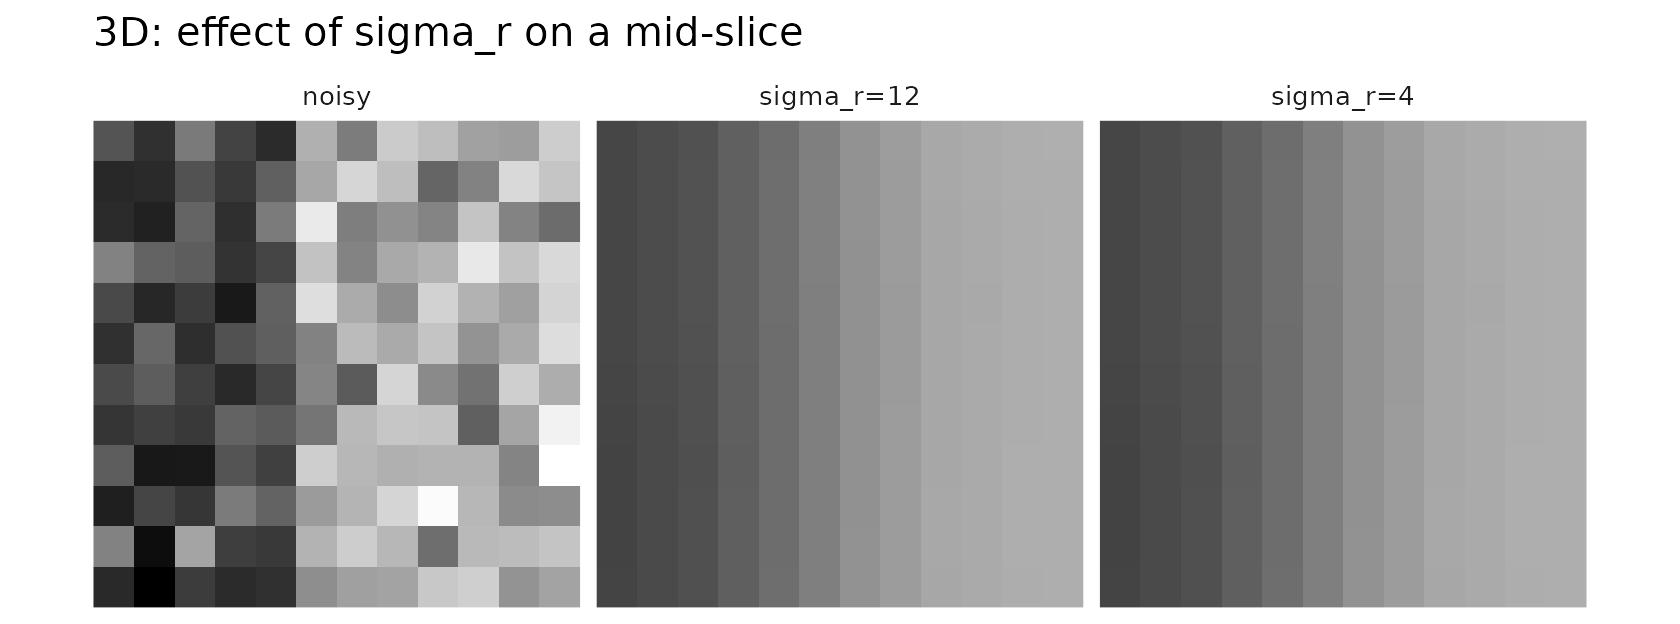
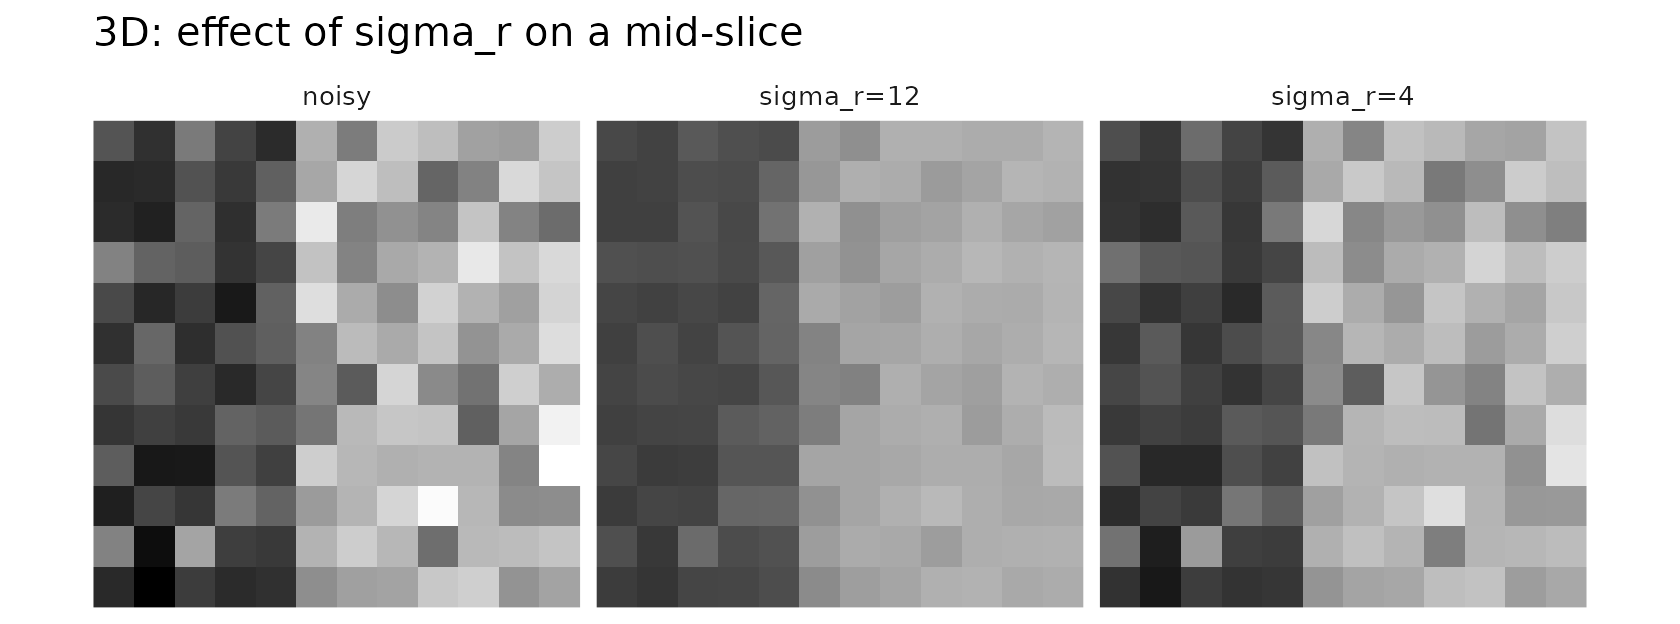
Deploying to gh-pages from @ bbuchsbaum/fmrismooth@e3fd1c4d721d65908ea3e33a7d5a07b94e15e84f 🚀

diff --git a/articles/bilateral-lattice.html b/articles/bilateral-lattice.html
@@ -143,14 +143,16 @@ to approximate a wider Gaussian. Most use cases need 1–2 iterations.</p>
 <span><span class="va">vol</span><span class="op">[</span><span class="fl">6</span><span class="op">:</span><span class="fl">12</span>, , <span class="op">]</span> <span class="op">&lt;-</span> <span class="va">vol</span><span class="op">[</span><span class="fl">6</span><span class="op">:</span><span class="fl">12</span>, , <span class="op">]</span> <span class="op">+</span> <span class="fl">20</span>                    <span class="co"># a step edge</span></span>
 <span><span class="va">noisy3d</span> <span class="op">&lt;-</span> <span class="va">vol</span> <span class="op">+</span> <span class="fu"><a href="https://rdrr.io/r/base/array.html" class="external-link">array</a></span><span class="op">(</span><span class="fu"><a href="https://rdrr.io/r/stats/Normal.html" class="external-link">rnorm</a></span><span class="op">(</span><span class="fu"><a href="https://rdrr.io/r/base/prod.html" class="external-link">prod</a></span><span class="op">(</span><span class="va">d3</span><span class="op">)</span>, sd <span class="op">=</span> <span class="fl">6</span><span class="op">)</span>, dim <span class="op">=</span> <span class="va">d3</span><span class="op">)</span></span>
 <span></span>
-<span><span class="va">out3d_soft</span>  <span class="op">&lt;-</span> <span class="fu"><a href="../reference/bilat_lattice3d.html">bilat_lattice3d</a></span><span class="op">(</span><span class="va">noisy3d</span>, sigma_sp <span class="op">=</span> <span class="fl">2.0</span>, sigma_r <span class="op">=</span> <span class="fl">12</span><span class="op">)</span></span>
-<span><span class="va">out3d_edgey</span> <span class="op">&lt;-</span> <span class="fu"><a href="../reference/bilat_lattice3d.html">bilat_lattice3d</a></span><span class="op">(</span><span class="va">noisy3d</span>, sigma_sp <span class="op">=</span> <span class="fl">2.0</span>, sigma_r <span class="op">=</span> <span class="fl">4</span><span class="op">)</span></span>
+<span><span class="co">## Note: sigma_r only has an effect if an intensity guide is provided.</span></span>
+<span><span class="co">## Using the noisy volume itself as a guide is common in practice.</span></span>
+<span><span class="va">out3d_soft</span>  <span class="op">&lt;-</span> <span class="fu"><a href="../reference/bilat_lattice3d.html">bilat_lattice3d</a></span><span class="op">(</span><span class="va">noisy3d</span>, sigma_sp <span class="op">=</span> <span class="fl">2.0</span>, sigma_r <span class="op">=</span> <span class="fl">12</span>, guide <span class="op">=</span> <span class="va">noisy3d</span><span class="op">)</span></span>
+<span><span class="va">out3d_edgey</span> <span class="op">&lt;-</span> <span class="fu"><a href="../reference/bilat_lattice3d.html">bilat_lattice3d</a></span><span class="op">(</span><span class="va">noisy3d</span>, sigma_sp <span class="op">=</span> <span class="fl">2.0</span>, sigma_r <span class="op">=</span> <span class="fl">4</span>,  guide <span class="op">=</span> <span class="va">noisy3d</span><span class="op">)</span></span>
 <span></span>
 <span><span class="fu"><a href="https://rdrr.io/r/base/c.html" class="external-link">c</a></span><span class="op">(</span>var_noisy   <span class="op">=</span> <span class="fu"><a href="https://rdrr.io/r/stats/cor.html" class="external-link">var</a></span><span class="op">(</span><span class="fu"><a href="https://rdrr.io/r/base/vector.html" class="external-link">as.vector</a></span><span class="op">(</span><span class="va">noisy3d</span><span class="op">)</span><span class="op">)</span>,</span>
 <span>  var_soft    <span class="op">=</span> <span class="fu"><a href="https://rdrr.io/r/stats/cor.html" class="external-link">var</a></span><span class="op">(</span><span class="fu"><a href="https://rdrr.io/r/base/vector.html" class="external-link">as.vector</a></span><span class="op">(</span><span class="va">out3d_soft</span><span class="op">)</span><span class="op">)</span>,</span>
 <span>  var_edgey   <span class="op">=</span> <span class="fu"><a href="https://rdrr.io/r/stats/cor.html" class="external-link">var</a></span><span class="op">(</span><span class="fu"><a href="https://rdrr.io/r/base/vector.html" class="external-link">as.vector</a></span><span class="op">(</span><span class="va">out3d_edgey</span><span class="op">)</span><span class="op">)</span><span class="op">)</span></span>
 <span><span class="co">#&gt; var_noisy  var_soft var_edgey </span></span>
-<span><span class="co">#&gt; 137.92025  56.06691  56.06691</span></span>
+<span><span class="co">#&gt; 137.92025  79.49418 116.73337</span></span>
 <span></span>
 <span><span class="co"># visualize a central slice</span></span>
 <span><span class="va">zmid</span> <span class="op">&lt;-</span> <span class="fu"><a href="https://rdrr.io/r/base/Round.html" class="external-link">ceiling</a></span><span class="op">(</span><span class="va">d3</span><span class="op">[</span><span class="fl">3</span><span class="op">]</span><span class="op">/</span><span class="fl">2</span><span class="op">)</span></span>
@@ -172,7 +174,9 @@ to approximate a wider Gaussian. Most use cases need 1–2 iterations.</p>
 <span>  <span class="fu">labs</span><span class="op">(</span>title <span class="op">=</span> <span class="st">"3D: effect of sigma_r on a mid-slice"</span><span class="op">)</span></span></code></pre></div>
 <p><img src="bilateral-lattice_files/figure-html/unnamed-chunk-1-1.png" width="840"></p>
 <p>The smaller <code>sigma_r</code> preserves edges more aggressively at
-the cost of less denoising across intensity transitions.</p>
+the cost of less denoising across intensity transitions. If no guide is
+supplied, the filter reduces to a purely spatial Gaussian smoothing and
+<code>sigma_r</code> has no effect.</p>
 </div>
 <div class="section level2">
 <h2 id="d-example-with-temporal-coupling">4D example with temporal coupling<a class="anchor" aria-label="anchor" href="#d-example-with-temporal-coupling"></a>
